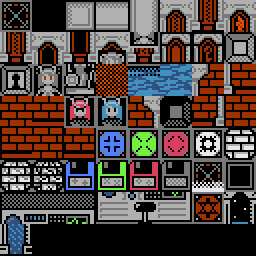
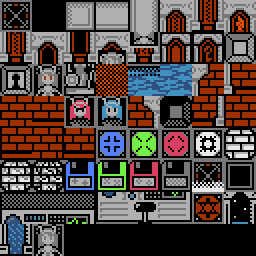
Graphical updates

Changed region(s): [[0.125, 0.875, 0.25, 1.0]]

diff --git a/AdventureEditor.cs b/AdventureEditor.cs
@@ -190,6 +190,9 @@ namespace as2edit
                 case 6:
                     myStream = myAssembly.GetManifestResourceStream("as2edit.dungeon6.png");
                     break;
+                case 7:
+                    myStream = myAssembly.GetManifestResourceStream("as2edit.town2.png");
+                    break;
                 default:
                     myStream = myAssembly.GetManifestResourceStream("as2edit.dungeon1.png");
                     break;

diff --git a/AdventureEditor.Designer.cs b/AdventureEditor.Designer.cs
@@ -328,7 +328,7 @@
             this.tilesetUpDown.Enabled = false;
             this.tilesetUpDown.Location = new System.Drawing.Point(213, 445);
             this.tilesetUpDown.Maximum = new decimal(new int[] {
-            6,
+            7,
             0,
             0,
             0});
